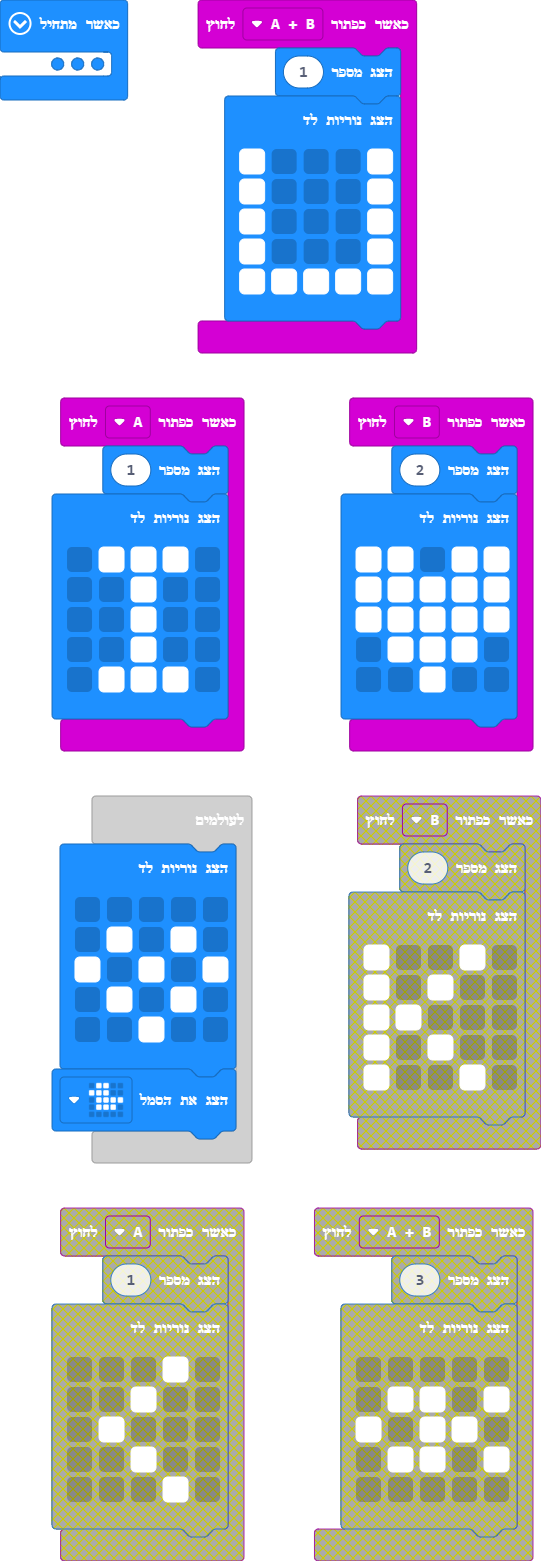
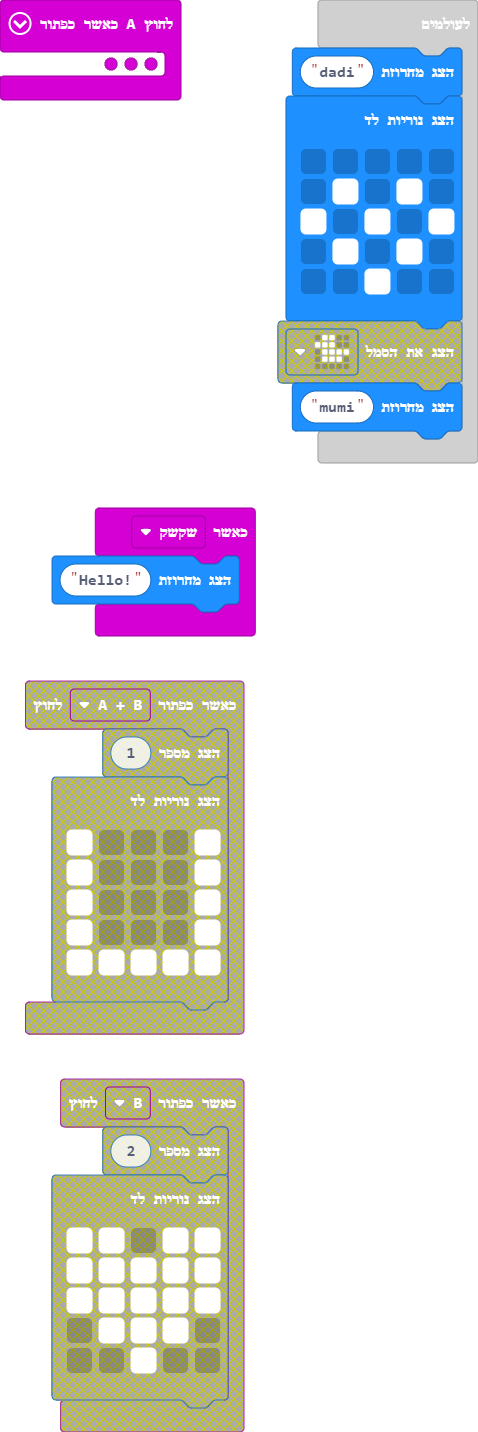
Update main.blocks, main.ts

diff --git a/main.ts b/main.ts
@@ -1,5 +1,8 @@
+input.onGesture(Gesture.Shake, function () {
+    basic.showString("Hello!")
+})
 input.onButtonPressed(Button.A, function () {
-    basic.showNumber(1)
+    basic.showNumber(2)
     basic.showLeds(`
         . # # # .
         . . # . .
@@ -7,18 +10,6 @@ input.onButtonPressed(Button.A, function () {
         . . # . .
         . # # # .
         `)
-})
-input.onButtonPressed(Button.AB, function () {
-    basic.showNumber(1)
-    basic.showLeds(`
-        # . . . #
-        # . . . #
-        # . . . #
-        # . . . #
-        # # # # #
-        `)
-})
-input.onButtonPressed(Button.B, function () {
     basic.showNumber(2)
     basic.showLeds(`
         # # . # #
@@ -26,6 +17,14 @@ input.onButtonPressed(Button.B, function () {
         # # # # #
         . # # # .
         . . # . .
+        `)
+    basic.showNumber(2)
+    basic.showLeds(`
+        # . . . #
+        # . . . #
+        # . . . #
+        # . . . #
+        # # # # #
         `)
 })
 basic.showLeds(`
@@ -45,6 +44,7 @@ basic.showLeds(`
     . . . . .
     `)
 basic.forever(function () {
+    basic.showString("dadi")
     basic.showLeds(`
         . . . . .
         . # . # .
@@ -52,5 +52,5 @@ basic.forever(function () {
         . # . # .
         . . # . .
         `)
-    basic.showIcon(IconNames.Duck)
+    basic.showString("mumi")
 })
